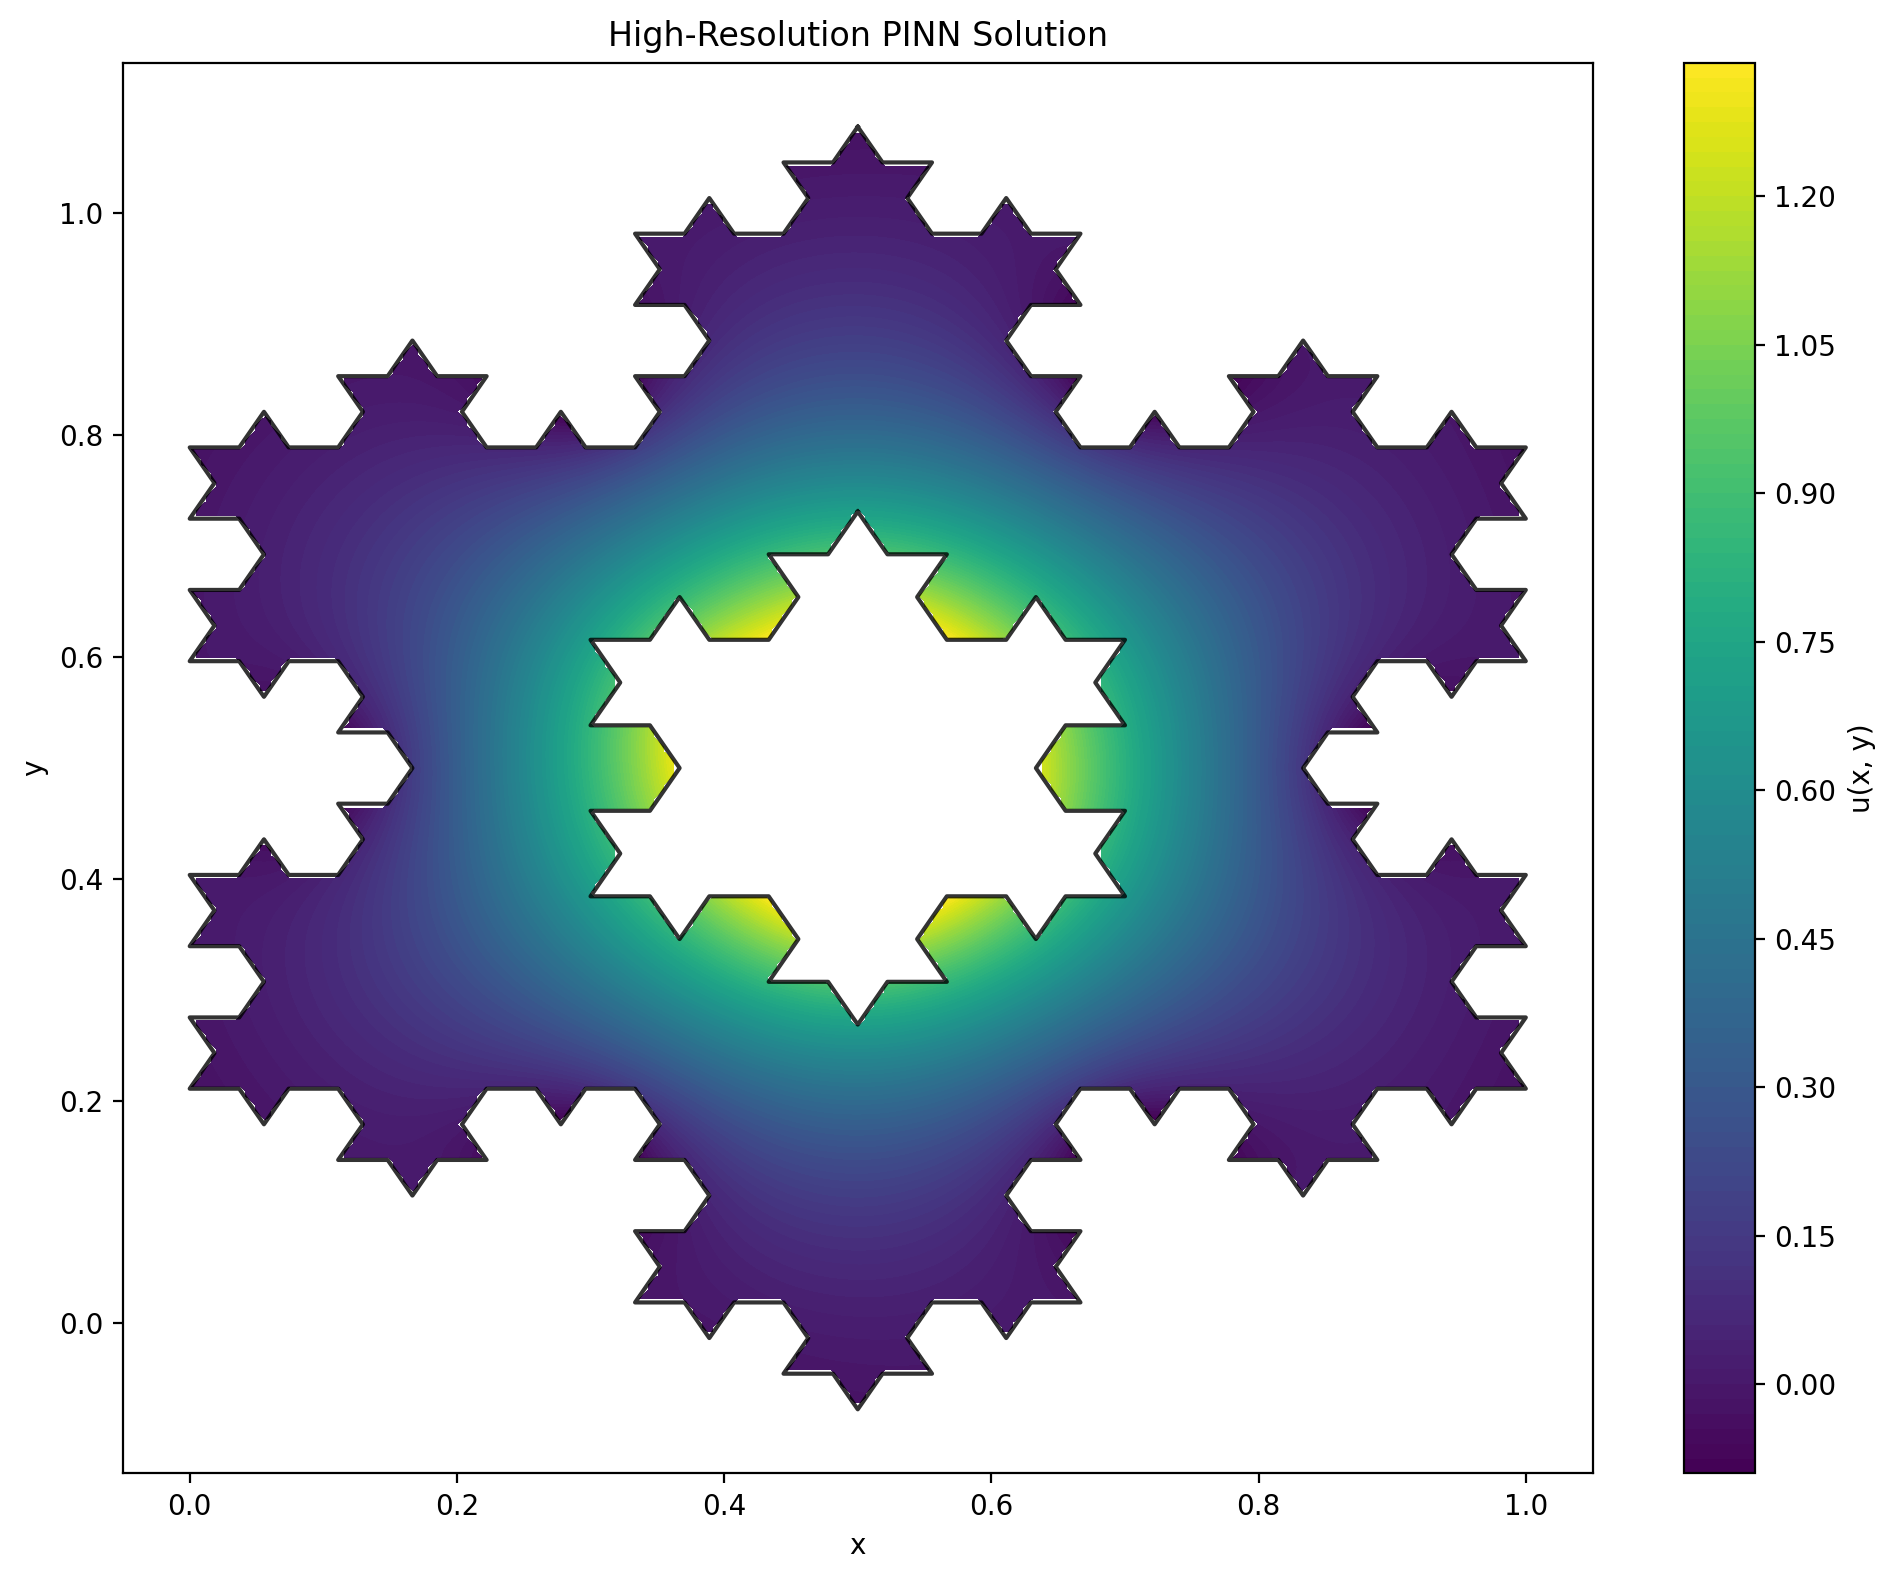
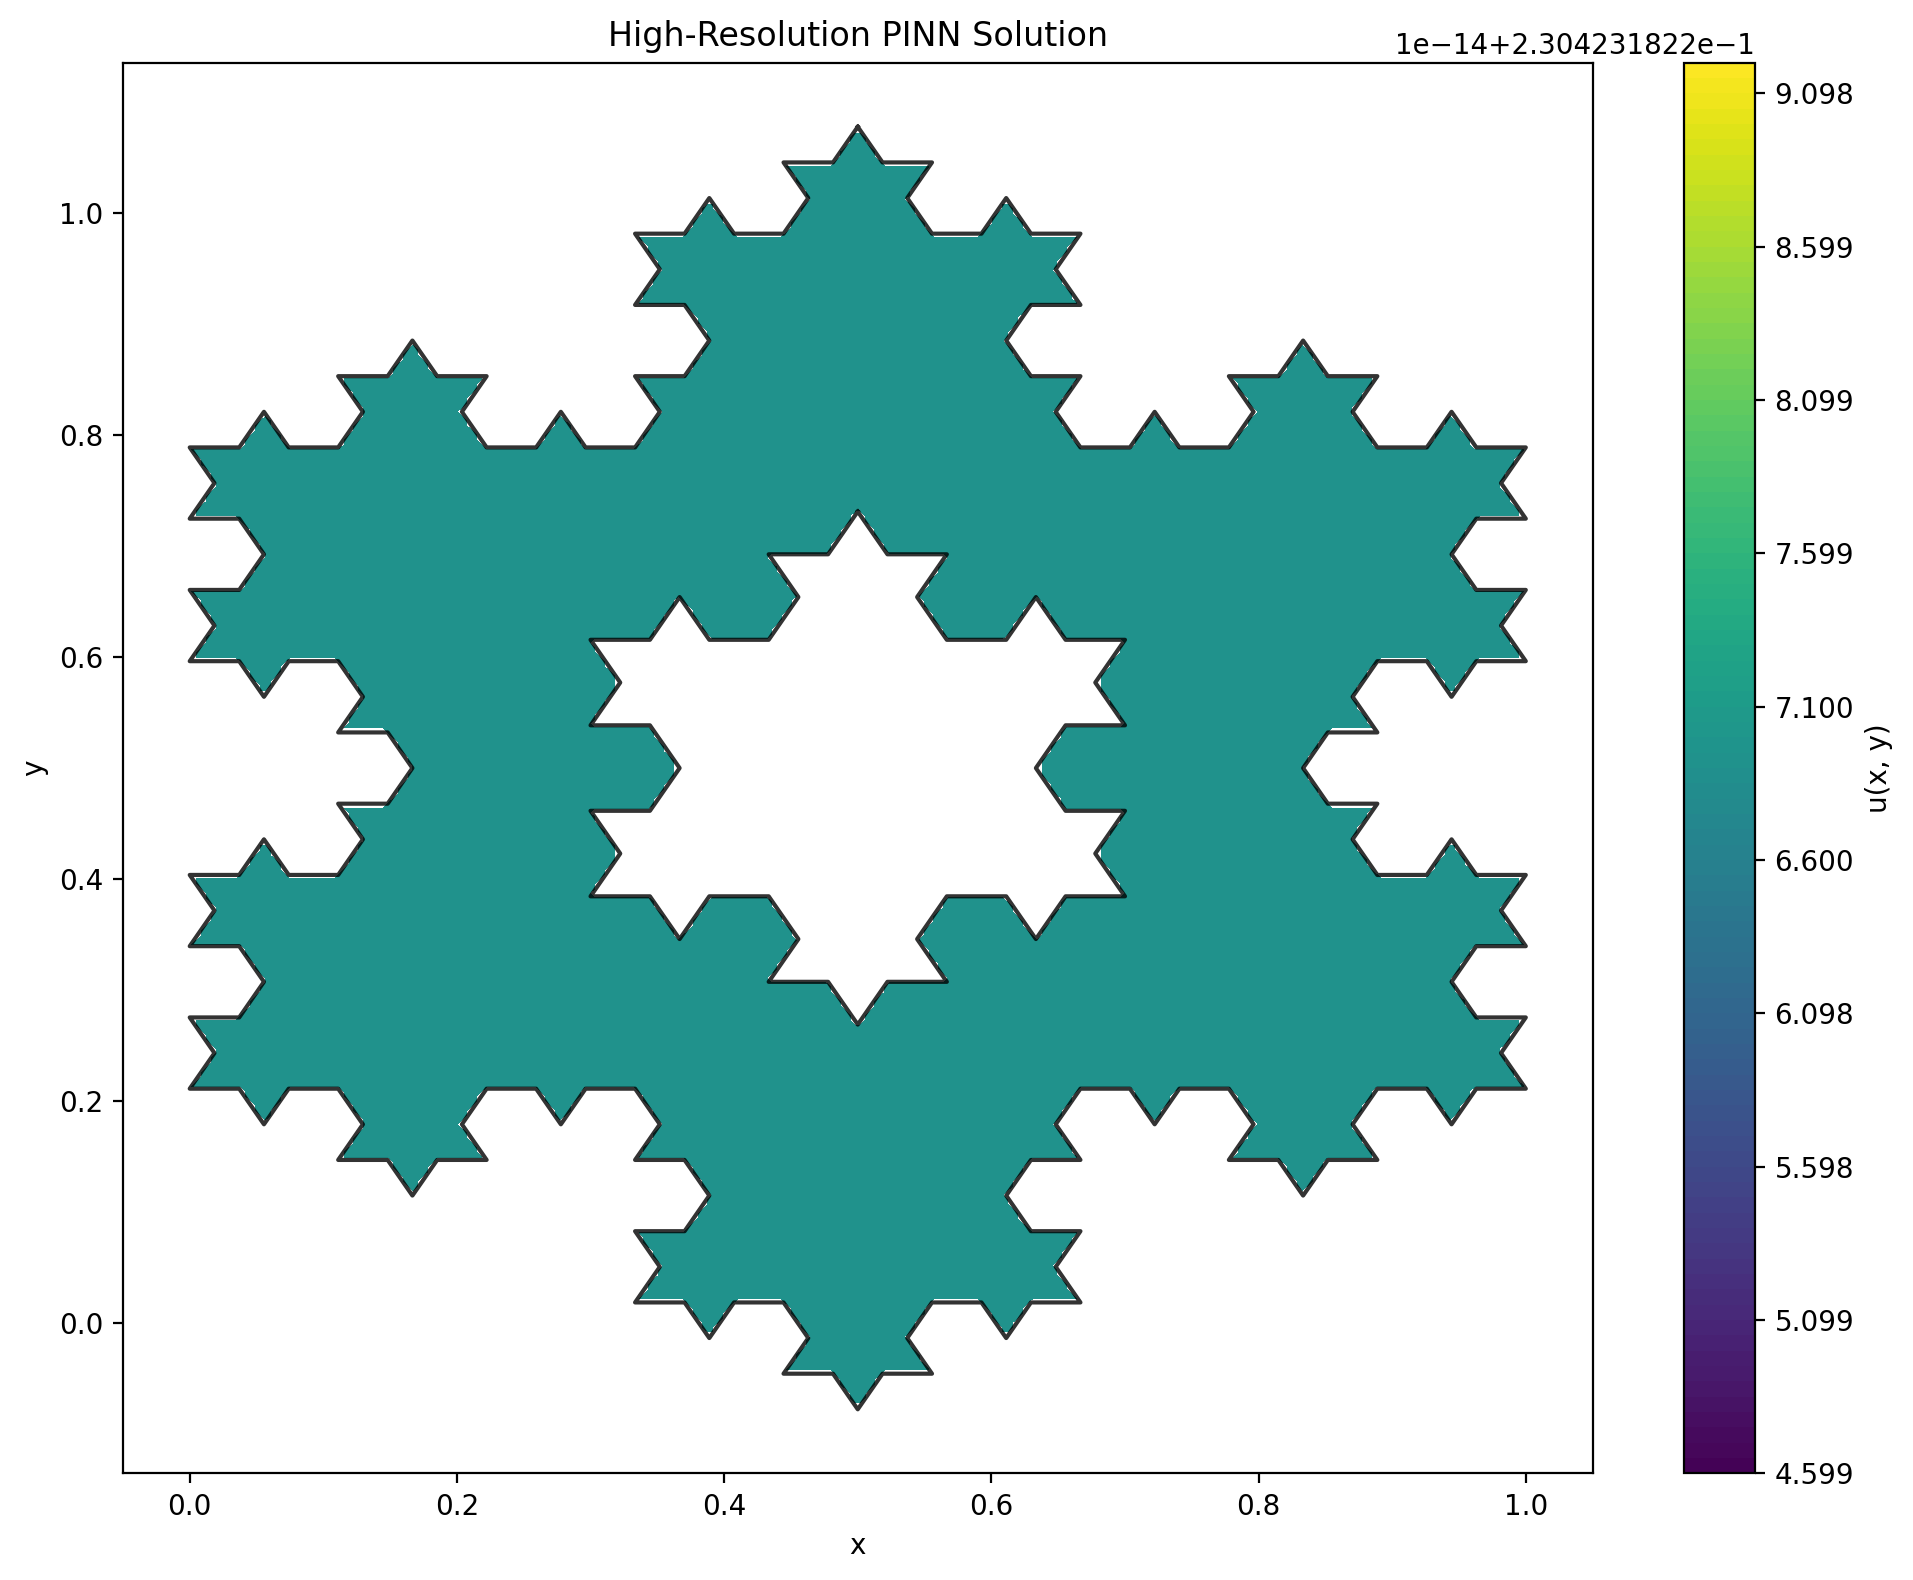
chore: commit intermediate SIREN results and logging enhancements
- Add config sanitation and print summary at training start
- Implement per-component (PDE vs BC) loss logging for L-BFGS
- Save current state of SIREN-based nested snowflake solution
- Prepare for hyperparameter tuning to resolve flat-field and range violations

diff --git a/src/model.py b/src/model.py
@@ -1,22 +1,62 @@
 import torch
 import torch.nn as nn
+import numpy as np
+
+class Sine(nn.Module):
+    """Sine activation function with scaling for SIREN-like behavior."""
+    def __init__(self, omega=30.0):
+        super().__init__()
+        self.omega = omega
+    def forward(self, x):
+        return torch.sin(self.omega * x)
 
 class PINN(nn.Module):
     """
-    Simple Physics-Informed Neural Network for 2D problems.
+    Enhanced PINN with support for SIREN (Sine) or Tanh activations.
+    SIREN is preferred for complex geometries and higher-order derivatives.
     """
-    def __init__(self, input_dim=2, hidden_dim=20, output_dim=1, num_layers=4):
+    def __init__(self, input_dim=2, hidden_dim=20, output_dim=1, num_layers=4, activation='sine'):
         super(PINN, self).__init__()
-        layers = []
-        layers.append(nn.Linear(input_dim, hidden_dim))
-        layers.append(nn.Tanh())
         
-        for _ in range(num_layers - 2):
-            layers.append(nn.Linear(hidden_dim, hidden_dim))
+        layers = []
+        
+        # First Layer
+        layers.append(nn.Linear(input_dim, hidden_dim))
+        if activation == 'sine':
+            layers.append(Sine(omega=30.0))
+        else:
             layers.append(nn.Tanh())
             
+        # Hidden Layers
+        for _ in range(num_layers - 2):
+            layers.append(nn.Linear(hidden_dim, hidden_dim))
+            if activation == 'sine':
+                layers.append(Sine(omega=30.0))
+            else:
+                layers.append(nn.Tanh())
+            
+        # Output Layer
         layers.append(nn.Linear(hidden_dim, output_dim))
         self.net = nn.Sequential(*layers)
+        
+        # SIREN specific initialization
+        if activation == 'sine':
+            self._init_siren()
+
+    def _init_siren(self):
+        """Standard SIREN initialization scheme."""
+        with torch.no_grad():
+            for i, layer in enumerate(self.net):
+                if isinstance(layer, nn.Linear):
+                    num_input = layer.weight.size(-1)
+                    if i == 0:
+                        # First layer special init
+                        layer.weight.uniform_(-1 / num_input, 1 / num_input)
+                    else:
+                        # Hidden layers
+                        layer.weight.uniform_(-np.sqrt(6 / num_input) / 30.0, 
+                                            np.sqrt(6 / num_input) / 30.0)
+                    layer.bias.uniform_(-1e-6, 1e-6)
 
     def forward(self, x):
         return self.net(x)

diff --git a/main.py b/main.py
@@ -34,6 +34,17 @@ def train(domain=None, bc_fn=None, f_fn=None, config=None) -> torch.nn.Module:
         default_config.update(config)
     cfg = default_config
 
+    # Sanitation and Sanity Checks
+    required_keys = ["hidden_dim", "num_layers", "activation", "lambda_bc"]
+    for key in required_keys:
+        if key not in cfg:
+            raise KeyError(f"Missing required config key: {key}")
+    
+    print(f"--- PINN Configuration ---")
+    print(f"  - Model: {cfg['num_layers']} layers, {cfg['hidden_dim']} units, {cfg['activation']} activation")
+    print(f"  - Weighting: lambda_bc={cfg['lambda_bc']}")
+    print(f"  - Resolution: Adam({cfg['adam_points_domain']}/{cfg['adam_points_bc']}), L-BFGS({cfg['lbfgs_points_domain']}/{cfg['lbfgs_points_bc']})")
+
     set_seed(cfg["seed"])
     device = get_device()
     print(f"Training on device: {device}")
@@ -41,7 +52,8 @@ def train(domain=None, bc_fn=None, f_fn=None, config=None) -> torch.nn.Module:
     # Architecture defined by config
     model = PINN(
         hidden_dim=cfg["hidden_dim"], 
-        num_layers=cfg["num_layers"]
+        num_layers=cfg["num_layers"],
+        activation=cfg.get("activation", "tanh")
     ).to(device)
     
     # Stage 1: Adam
@@ -85,12 +97,18 @@ def train(domain=None, bc_fn=None, f_fn=None, config=None) -> torch.nn.Module:
         loss_bc = boundary_loss(model, x_bc, y_bc, u_bc)
         total_loss = loss_pde + cfg["lambda_bc"] * loss_bc
         total_loss.backward()
+        # Attach individual losses to the total_loss tensor for retrieval in the main loop
+        total_loss.pde = loss_pde.item()
+        total_loss.bc = loss_bc.item()
         return total_loss
 
     for epoch in range(cfg["lbfgs_epochs"]):
         loss = optimizer_lbfgs.step(closure)
         if epoch % 100 == 0:
-            print(f"L-BFGS Epoch {epoch:3d} | Loss: {loss.item():.8f}")
+            # L-BFGS closure might be called multiple times per step, 
+            # we report the values from the final closure call
+            print(f"L-BFGS Epoch {epoch:3d} | Loss: {loss.item():.8f} "
+                  f"(PDE: {loss.pde:.8f}, BC: {loss.bc:.8f})")
             
     return model
 
@@ -221,6 +239,7 @@ if __name__ == "__main__":
     config = {
         "num_layers": 6,             # Even deeper
         "hidden_dim": 64,            # Much wider for high-frequency details
+        "activation": "sine",        # Use SIREN for fractal complexity
         "adam_epochs": 2000,         # More exploration
         "lbfgs_epochs": 1000,        # Extended fine-tuning
         "adam_points_domain": 3000, 